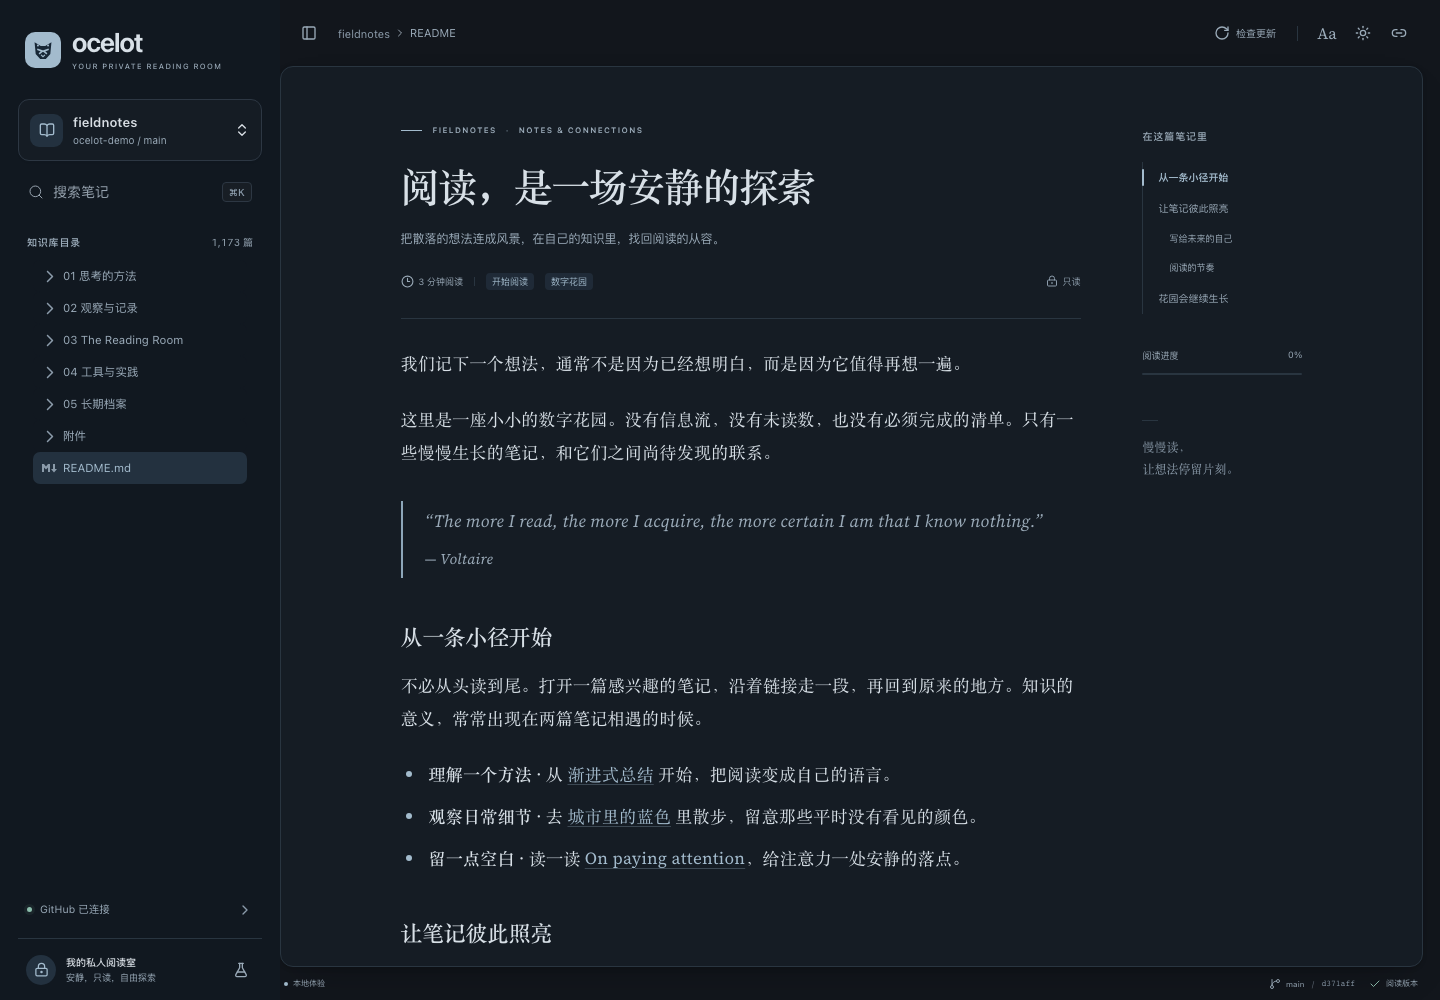
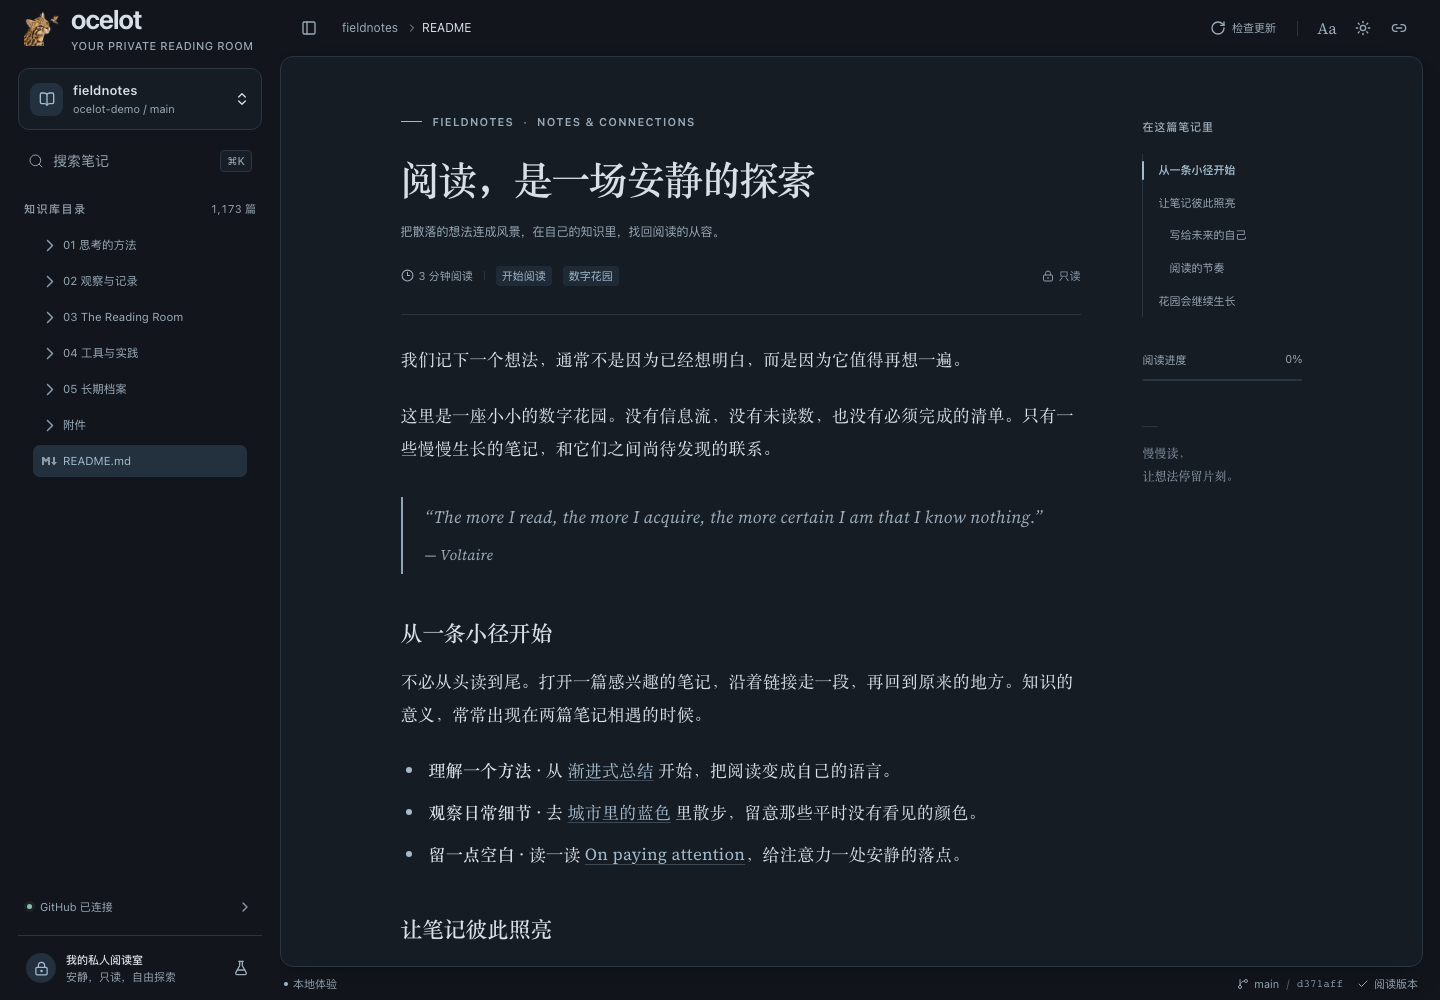
feat: adopt Ocelot family identity and bilingual readmes

diff --git a/index.html b/index.html
@@ -6,7 +6,15 @@
     <meta name="theme-color" content="#f3f5f7" />
     <meta name="robots" content="noindex, nofollow" />
     <title>Ocelot · 私人阅读室</title>
-    <link rel="icon" href="/favicon.svg" type="image/svg+xml" />
+    <meta name="description" content="A private, read-only Obsidian reader for public and private GitHub vaults." />
+    <link rel="icon" href="/favicon-32.png" type="image/png" sizes="32x32" />
+    <link rel="icon" href="/favicon-16.png" type="image/png" sizes="16x16" />
+    <link rel="apple-touch-icon" href="/apple-touch-icon.png" sizes="180x180" />
+    <meta property="og:title" content="Ocelot · 私人阅读室" />
+    <meta property="og:description" content="A private, read-only Obsidian reader for public and private GitHub vaults." />
+    <meta property="og:image" content="https://hexly.ai/og/ocelot.jpg" />
+    <meta name="twitter:card" content="summary_large_image" />
+    <meta name="twitter:image" content="https://hexly.ai/og/ocelot.jpg" />
   </head>
   <body>
     <div id="root"></div>

diff --git a/src/views/Mark.tsx b/src/views/Mark.tsx
@@ -1,22 +1,13 @@
 export function Mark({ small = false }: { small?: boolean }) {
   return (
-    <svg
+    <img
       className={small ? "ocelot-mark small" : "ocelot-mark"}
-      viewBox="0 0 64 64"
-      fill="none"
+      src="/logo-80.png"
+      srcSet="/logo-80.png 1x, /logo-160.png 2x"
+      width="80"
+      height="80"
+      alt=""
       aria-hidden="true"
-    >
-      <rect width="64" height="64" rx="18" fill="currentColor" />
-      <path d="m17 18 11 7h8l11-7-2 21-8 9H27l-8-9Z" fill="var(--mark-paper)" />
-      <path
-        d="m23 31 8 3-5 4m15-7-8 3 5 4"
-        stroke="currentColor"
-        strokeWidth="3"
-        strokeLinecap="round"
-      />
-      <path d="m29 41 3 3 3-3" stroke="currentColor" strokeWidth="2" strokeLinecap="round" />
-      <circle cx="23" cy="24" r="1.8" fill="currentColor" />
-      <circle cx="41" cy="24" r="1.8" fill="currentColor" />
-    </svg>
+    />
   );
 }

diff --git a/tests/e2e/reader.spec.ts b/tests/e2e/reader.spec.ts
@@ -490,7 +490,7 @@ for (const theme of ["light", "dark"] as const) {
     await open(page);
     await expect(page.locator(".ocelot-sidebar")).toHaveCSS(
       "background-color",
-      theme === "dark" ? "rgb(17, 24, 32)" : "rgb(245, 247, 249)",
+      theme === "dark" ? "rgb(18, 22, 28)" : "rgb(243, 245, 247)",
     );
     await settleMotion(page);
     const audit = await new AxeBuilder({ page }).analyze();

diff --git a/src/views/styles.css b/src/views/styles.css
@@ -930,9 +930,6 @@ a {
   color: var(--muted);
   font-size: 11px;
 }
-.article-footer .ocelot-mark {
-  opacity: 0.6;
-}
 .article-footer > button {
   margin-left: auto;
   background: transparent;

diff --git a/docs/README.en.md b/docs/README.en.md
@@ -1,0 +1,82 @@
+<p align="center">
+  <img src="../assets/brand/icon-rounded.png" width="128" height="128" alt="Ocelot: a faceted wild cat watching a colorful paper bird">
+</p>
+
+<h1 align="center">Ocelot</h1>
+
+<p align="center"><a href="../README.md">简体中文</a> · English</p>
+
+A quiet, private reading room. Connect public or private Obsidian vaults on GitHub and read through folders,
+wiki links and article outlines. Ocelot is a single-user reader; source repositories remain read-only.
+
+Basalt **2.1.7** supplies controls and layout, Pierre Trees supplies virtualized navigation, and Chinese/English
+document typography takes cues from [Kami](https://github.com/tw93/Kami). The cool blue-gray interface supports
+light/dark themes, mobile layouts, keyboard navigation and reduced motion.
+
+<picture>
+  <source media="(prefers-color-scheme: dark)" srcset="assets/reader-dark.png">
+  <img src="assets/reader-light.png" alt="Ocelot's vault tree, article and outline, using synthetic example notes">
+</picture>
+
+## Try it locally
+
+Use Node.js 26 and Bun 1.4.0:
+
+```sh
+bun install --frozen-lockfile
+bun run dev
+```
+
+Open <http://127.0.0.1:5173>. The demo uses a real local Wrangler Worker, SQLite D1 and disk-backed R2.
+It needs no PAT or Cloudflare account and stores its data under `.wrangler/state`.
+
+Synthetic fixtures provide three repositories, 1,173 visible notes in the main vault, original images and two Git revisions.
+The sidebar's flask button demonstrates slow loading, expiry reminders, invalid credentials, rate limits, offline behavior and new commits.
+Add the third example, `ocelot-demo/reading-room`, through the repository dialog.
+
+## Reading and updates
+
+- Render GFM, frontmatter, Obsidian wiki links and aliases, heading/block anchors, callouts, tables, code, math and Mermaid diagrams.
+- Keep embedded notes and attachments on the same Git revision. External tracking images and executable content are blocked.
+- Search filenames and paths with `⌘K` / `Ctrl+K`. The tree supports keyboard selection, expansion and change indicators.
+- Cache note content on demand. Conditional checks run every 60 seconds while the page is visible and pause when hidden. Unchanged trees are not transferred again.
+- Apply updates explicitly while preserving the reading position and expanded folders. Slow requests keep the current article visible.
+- Receive a reminder seven days before a PAT expires. After rotating it on the server, check again to resume reading.
+
+## Engineering and verification
+
+Vite, React and **TypeScript 7.0.2** form an MVVM application, with Biome and Husky.
+The Worker validates Cloudflare Access identity; GitHub PATs stay in Worker Secrets.
+D1 stores metadata and private R2 stores a rebuildable cache.
+
+```sh
+bun run check
+bun run worker:check
+bun x playwright install chromium
+bun run test:e2e
+```
+
+These commands cover static checks, non-View code coverage, the frontend build, a Worker dry run and browser acceptance.
+The existing local baseline records **147 unit tests and 16 browser tests passed**, with non-View statement/branch/function/line
+coverage of **100% / 98.34% / 100% / 100%** and light, dark and mobile axe checks.
+The [runtime and verification record](05-runtime-contract-and-verification.md) documents the evidence and support boundaries.
+
+The production entry point and configuration are prepared, but the application has **not been deployed**.
+Follow [Running and deployment](06-running-and-deployment.md) to configure a real domain, Access, D1/R2 and PAT.
+The default local demo does not connect to real GitHub repositories.
+
+## Documentation
+
+- [00 · Project status and index](00-project-status.md)
+- [01 · Product and engineering contract](01-product-contract.md)
+- [02 · GitHub authentication, caching and updates](02-github-auth-cache-and-sync.md)
+- [03 · Reference projects](03-reference-projects.md)
+- [04 · Implementation and local acceptance](04-implementation-and-local-testing.md)
+- [05 · Runtime contract and verification](05-runtime-contract-and-verification.md)
+- [06 · Running, PAT rotation and deployment](06-running-and-deployment.md)
+- [07 · Basalt navigation and reading chrome](07-basalt-navigation.md)
+- [08 · Visual identity](08-visual-identity.md) · [Brand assets](../assets/brand/README.md)
+- [Contributor agreement](../AGENTS.md) · [Third-party notices](../THIRD_PARTY_NOTICES.md)
+
+Make coherent atomic commits on `main`. This public repository contains the application and synthetic fixtures,
+not private notes, real vault inventories or runtime credentials.

diff --git a/docs/08-visual-identity.md b/docs/08-visual-identity.md
@@ -1,0 +1,31 @@
+# 08 · Visual identity
+
+Status: Source adoption is complete for the owner-approved drawing, finishing `03`. This document was created before consumer replacement. The owner authorized source publication, README/profile synchronization and the Hexly patch release on 2026-09-11.
+
+The selected drawing is an offset warm-gold ocelot portrait with connected flat facets, dark species markings, both eyes visible and one coral/saffron/teal folded-paper bird. The short neck and shoulder intentionally continue through the bottom and lower-left canvas. Preserve the accepted pointed far ear and the complete paper bird.
+
[1 lines of base64/hex data omitted]
+
+| Consumer | Asset role |
+| --- | --- |
+| Root `logo.png` | Canonical transparent 2048 px foreground |
+| `assets/brand/icon.png` | Complete square presentation with independent paper and shadows |
+| `assets/brand/icon-rounded.png` | Rounded presentation for both README headers |
+| Shared `Mark`, including navigation, collapsed rail, article footer and empty reader | Transparent foreground, served at 80/160 px; no enclosing tile or corner crop |
+| Browser favicon | Transparent 16/32 px PNGs |
+| Apple touch icon | Square 180 px presentation; the platform supplies its own mask |
+| Social previews | The shared Hexly image at `https://hexly.ai/og/ocelot.jpg` |
+
+The paper background uses independent broken almond rosettes and turned-page curves. It is a presentation palette, not a website theme. Ocelot keeps its existing blue-gray controls, light/dark reading surfaces and text colors. Application marks use the same foreground in both themes.
+
+The archived `export-source.mjs` in the Hexly study derives the application, favicon and touch assets from the selected masters using Hexly's existing Sharp toolchain. Ocelot builds use the checked-in PNGs and need no image-processing dependency. Re-run that export after an approved identity change; do not crop, recolor or reconstruct the animal. The source request, masks, native-pixel checks, ten export sizes, static comparison and catalogue comparison live in Hexly. Source consumer checks and current adoption status are recorded alongside the brand provenance.
+
+The app remains a single-user, read-only GitHub vault reader. Branding does not deploy the application, configure Cloudflare Access, install credentials or change its GitHub/cache behavior. The published navigation update at `8875681` is included as the base of this change; its interface and behavior are preserved. The obsolete footer opacity rule is removed so every application mark uses the accepted colors.
+
+## Verification
+
+- Biome passed. Four existing browser journeys passed: Basalt breadcrumbs/collapsed navigation, light and dark desktop accessibility/preferences, and mobile drawer/outline/reduced motion. Two stale sidebar-color expectations were updated to the already-published Basalt L0 colors, `#f3f5f7` and `#12161c`; the application theme was not changed.
+- The production frontend build passed. README light, dark and mobile screenshots now show the current navigation and new mark with synthetic notes.
+- The study's `inspection/source-browser/checks.json` records eight actual consumer states across both themes, five exact served asset checksums, 36/23/57 px application marks, full opacity, transparent backgrounds, no additional crop or filter, and no overflow or page errors.
+- Native extraction preserves the RGB of all 1,953,070 fully opaque pixels. Both ears, eyes, muzzle, whiskers and the full paper bird remain inside the rounded boundary; only the approved shoulder entry crosses the frame. All ten export sizes are retained.
+- The source pre-commit typecheck and pre-push non-View coverage gate remain enabled. Publication results and immutable source revision are recorded in the Hexly adoption record after the push.

diff --git a/assets/brand/README.md b/assets/brand/README.md
@@ -1,0 +1,19 @@
+# Ocelot brand assets
+
+The owner-approved identity is a warm-gold ocelot portrait watching one folded-paper bird. Its connected flat facets, dark markings and both eyes remain intact. The shoulder naturally enters through the bottom and lower-left edges.
+
+| File | Role |
+| --- | --- |
+| `../../logo.png` | Exact 2048 px transparent master |
+| `icon.png` | Exact square presentation with paper and contact shadows |
+| `icon-rounded.png` | Exact rounded presentation; use at 128 px in both README headers |
+| `background.png` | Independent rosette and turned-page paper field |
+| `../../public/logo-{80,160}.png` | Transparent application marks for the shared `Mark` component |
+| `../../public/favicon-{16,32}.png` | Transparent browser marks |
+| `../../public/apple-touch-icon.png` | Square 180 px presentation; the operating system supplies its mask |
+
+Small interface marks have no tile background, extra rounded crop, shadow or color filter. The footer uses the same full-opacity artwork. Root `logo.png` remains the canonical foreground; never replace it with the presentation tile.
+
+[Provenance](provenance.json) records the selected `2026-09-11-01 / 03` study, owner approval, dimensions and exact SHA-256 values. [The Hexly archive](https://github.com/nocoo/hexly.ai/tree/main/artwork/logo-family/ocelot/2026-09-11-01) preserves the original SVG identities, untouched generation, prompt, references, extraction masks, independent layers, every finishing pass and visual checks.
+
+To reproduce these source assets, run the study's `export-source.mjs` from a Hexly checkout with its existing dependencies, passing this repository's absolute path. Ocelot requires no image-processing dependency. The existing blue-gray application theme is separate from the warm artwork and paper palette. See [Visual identity](../../docs/08-visual-identity.md) for consumers and verification.

diff --git a/README.md b/README.md
@@ -1,4 +1,10 @@
-# Ocelot
+<p align="center">
+  <img src="assets/brand/icon-rounded.png" width="128" height="128" alt="Ocelot：凝望彩色折纸鸟的碎片豹猫">
+</p>
+
+<h1 align="center">Ocelot</h1>
+
+<p align="center">简体中文 · <a href="docs/README.en.md">English</a></p>
 
 一处安静的私人阅读室。连接 GitHub 上的公开或私有 Obsidian 知识库，沿着目录、
 双链和文章大纲阅读。源仓库始终只读。
@@ -66,6 +72,8 @@ bun run test:e2e           # 独立 Wrangler + 生产前端的浏览器验收
 - [04 · 实现与本地验收](docs/04-implementation-and-local-testing.md)
 - [05 · 运行契约与验收记录](docs/05-runtime-contract-and-verification.md)
 - [06 · 本地运行、PAT 轮换与部署](docs/06-running-and-deployment.md)
+- [07 · Basalt 导航与阅读界面](docs/07-basalt-navigation.md)
+- [08 · 视觉规范](docs/08-visual-identity.md) · [品牌资产](assets/brand/README.md)
 - [开发协作约定](AGENTS.md) · [第三方说明](THIRD_PARTY_NOTICES.md)
 
 在 `main` 上按可验证的结果做原子提交。公开仓库只保存应用与合成示例，
